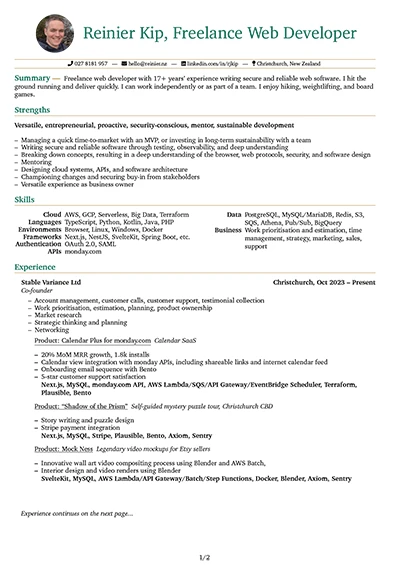
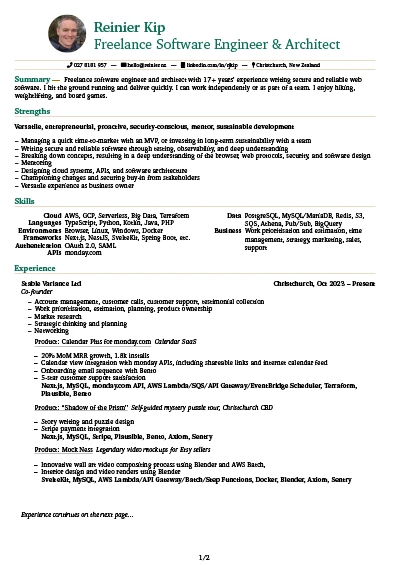
Update role to match market

diff --git a/resume.tex b/resume.tex
@@ -21,19 +21,33 @@
 % Heading %
 %---------%
 \documentTitle{
-\raisebox{-7.5mm}{
-  \begin{tikzpicture}
-    \clip (0,0) circle (10mm);
-    \node at (0,0) {\includegraphics[width=20mm]{reinier.png}};
-  \end{tikzpicture}
+  \begin{tabular}{@{}l l@{}}
+    \raisebox{-2mm}{
+      \begin{tikzpicture}
+        \clip (0,0) circle (10mm);
+        \node at (0,0) {\includegraphics[width=20mm]{reinier.png}};
+      \end{tikzpicture}
+    } &
+    \begin{tabular}[b]{@{}@{\hspace{2mm}}l@{}}
+      \textbf{Reinier Kip} \\
+      Freelance Software Engineer \& Architect
+    \end{tabular}
+  \end{tabular}
+}{
+  \href{tel:027 8181 957}{\raisebox{0\height} \faPhone\ 027 8181 957}
+  ~ | ~
+  \href{mailto:hello@reinier.nz}{\raisebox{0\height} \faEnvelope\ hello@reinier.nz}
+  ~ | ~
+  \href{https://linkedin.com/in/rjkip}{\raisebox{0\height} \faLinkedin\ linkedin.com/in/rjkip}
+  ~ | ~
+  {\raisebox{0\height} \faMapPin\ Christchurch, New Zealand}
 }
-Reinier Kip, Freelance Web Developer}{\href{tel:027 8181 957}{\raisebox{0\height} \faPhone\ 027 8181 957} ~ | ~ \href{mailto:hello@reinier.nz}{\raisebox{0\height} \faEnvelope\ hello@reinier.nz} ~ | ~ \href{https://linkedin.com/in/rjkip}{\raisebox{0\height} \faLinkedin\ linkedin.com/in/rjkip} ~ | ~ {\raisebox{0\height} \faMapPin\ Christchurch, New Zealand}}
 
     %---------%
     % Summary %
     %---------%
     \tinysection{Summary}
-    Freelance web developer with 17+ years' experience writing secure and reliable web software.
+    Freelance software engineer and architect with 17+ years' experience writing secure and reliable web software.
     I hit the ground running and deliver quickly. I can work independently or as part of a team.
     I enjoy hiking, weightlifting, and board games.
 

diff --git a/README.md b/README.md
@@ -1,6 +1,6 @@
 # Resume
 
-[![Reinier Kip, Freelance Web Developer](resume.webp)](https://github.com/rjkip/resume/releases/latest/download/Reinier.Kip.Freelance.Web.Developer.pdf)
+[![Reinier Kip, Freelance Software Engineer & Architect](resume.webp)](https://github.com/rjkip/resume/releases/latest/download/Reinier.Kip.Freelance.Software.Engineer.and.Architect.pdf)
 
 ## Build
 
